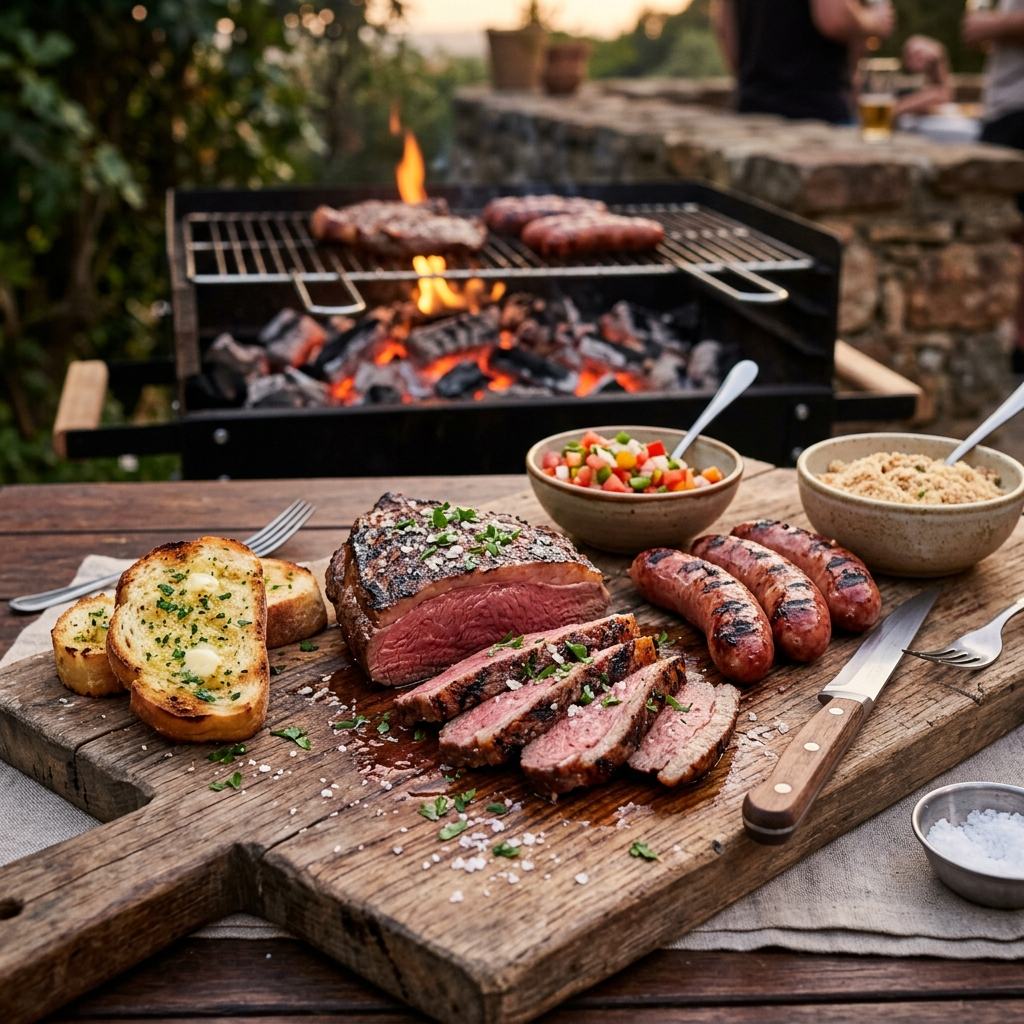
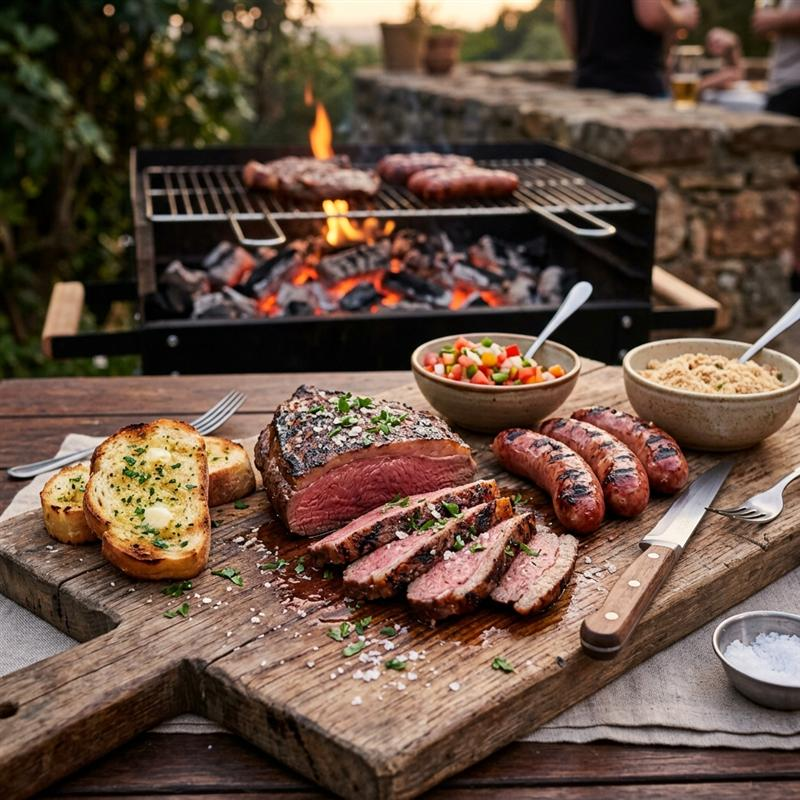
feat: adicionar componente de compactacao automatica de imagem para whatsapp (800x800 e <180KB)

Changed region(s): [[0.4062, 0.5312, 0.4375, 0.5625], [0.375, 0.5, 0.4062, 0.5312]]

diff --git a/public/index.html b/public/index.html
@@ -1216,20 +1216,97 @@
       }
     }
 
-    // Manipulação de Upload de Imagem
-    imagemFileInput.addEventListener('change', function(e) {
+    /**
+     * Compactador e Otimizador de Imagem Automático para o WhatsApp
+     * - Redimensiona para formato quadrado ideal (800x800 px) com corte centralizado
+     * - Comprime para JPEG de alta nitidez abaixo de 180 KB (WhatsApp exige < 300 KB)
+     * - Garante que o robô de pré-visualização do WhatsApp baixe e exiba a foto instantaneamente
+     */
+    function compactarImagemParaWhatsApp(file) {
+      return new Promise((resolve, reject) => {
+        const originalSizeKB = Math.round(file.size / 1024);
+        const reader = new FileReader();
+
+        reader.onload = function(event) {
+          const img = new Image();
+          img.onload = function() {
+            const canvas = document.createElement('canvas');
+            const targetSize = 800; // 800x800 px padrão ouro WhatsApp
+            canvas.width = targetSize;
+            canvas.height = targetSize;
+            const ctx = canvas.getContext('2d');
+
+            // Corte central inteligente (Center-Crop 1:1)
+            let srcX = 0, srcY = 0, srcWidth = img.width, srcHeight = img.height;
+            if (img.width > img.height) {
+              srcWidth = img.height;
+              srcX = (img.width - img.height) / 2;
+            } else if (img.height > img.width) {
+              srcHeight = img.width;
+              srcY = (img.height - img.width) / 2;
+            }
+
+            // Suavização de alta qualidade
+            ctx.imageSmoothingEnabled = true;
+            ctx.imageSmoothingQuality = 'high';
+
+            // Desenhar imagem centralizada no canvas 800x800
+            ctx.drawImage(img, srcX, srcY, srcWidth, srcHeight, 0, 0, targetSize, targetSize);
+
+            // Ajuste progressivo de qualidade para garantir entre 90 KB e 180 KB
+            let quality = 0.82;
+            let compressedBase64 = canvas.toDataURL('image/jpeg', quality);
+            let approxKB = Math.round((compressedBase64.length * 3 / 4) / 1024);
+
+            if (approxKB > 250) {
+              quality = 0.72;
+              compressedBase64 = canvas.toDataURL('image/jpeg', quality);
+              approxKB = Math.round((compressedBase64.length * 3 / 4) / 1024);
+            }
+
+            resolve({
+              base64: compressedBase64,
+              originalKB: originalSizeKB,
+              compressedKB: approxKB,
+              width: targetSize,
+              height: targetSize
+            });
+          };
+          img.onerror = reject;
+          img.src = event.target.result;
+        };
+        reader.onerror = reject;
+        reader.readAsDataURL(file);
+      });
+    }
+
+    // Manipulação de Upload com Compactação Automática para WhatsApp
+    imagemFileInput.addEventListener('change', async function(e) {
       const file = e.target.files[0];
       if (!file) return;
 
-      const reader = new FileReader();
-      reader.onload = function(evt) {
-        currentImageBase64 = evt.target.result;
+      imageStatusDica.innerHTML = `⏳ <strong>Otimizando imagem para o WhatsApp...</strong>`;
+
+      try {
+        const result = await compactarImagemParaWhatsApp(file);
+        currentImageBase64 = result.base64;
         uploadThumb.src = currentImageBase64;
         uploadThumb.style.display = 'inline-block';
-        imageStatusDica.innerHTML = `✅ <strong>Foto personalizada selecionada!</strong> Tamanho ideal para visualização no WhatsApp.`;
+        
+        const reducao = Math.round((1 - (result.compressedKB / result.originalKB)) * 100);
+        const economiaTexto = result.originalKB > result.compressedKB ? `(${reducao}% de redução)` : '';
+
+        imageStatusDica.innerHTML = `⚡ <strong>Foto compactada automaticamente para o WhatsApp!</strong><br>` +
+          `Tamanho: ${result.originalKB} KB ➔ <strong>${result.compressedKB} KB</strong> ${economiaTexto} • 800x800 px.<br>` +
+          `✅ <em>100% no padrão para carregar automaticamente no balão do WhatsApp!</em>`;
+        imageStatusDica.style.color = '#34d399';
+
         simOgImg.src = currentImageBase64;
-      };
-      reader.readAsDataURL(file);
+        showToast(`Foto otimizada para o WhatsApp (${result.compressedKB} KB)`, '⚡');
+      } catch (err) {
+        console.error('Erro na compactação:', err);
+        imageStatusDica.innerHTML = `⚠ Erro ao otimizar foto: ${err.message}`;
+      }
     });
 
     // Atualização em Tempo Real do Simulador WhatsApp
